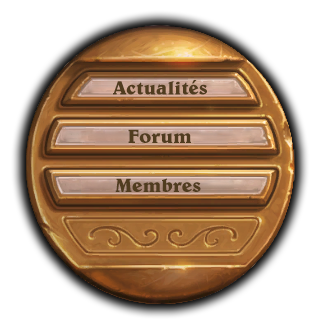
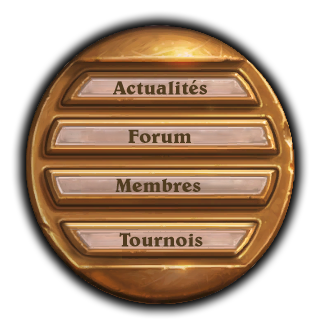
Menu has tournoi

Changed region(s): [[0.1562, 0.6364, 0.8438, 0.8182]]

diff --git a/hsr/static/styles/style_1.css b/hsr/static/styles/style_1.css
@@ -104,6 +104,23 @@ a:hover {
 	top: 196px;
 }
 
+#menu_tournoi_h {
+	position: absolute;
+	background: url('/static/images/menu/Hover/tournoi.png');
+    width: 221px;
+    height: 51px;
+    left: 50%;
+    margin-left: -106px;
+    top: 338px;
+    z-index: 14;
+}
+#menu_tournoi_h:hover {
+	background: url('/static/images/menu/Hover/tournoi_h.png');
+}
+#menu_tournoi_h:active {
+	top: 340px;
+}
+
 #menu_forum_h {
 	position: absolute;
 	background: url('/static/images/menu/Hover/forum.png');

diff --git a/hsr/templates/base.html b/hsr/templates/base.html
@@ -50,6 +50,7 @@
 		<a href="/"><div id="menu_actualite_h"></div></a>
 		<a href="/forum/"><div id="menu_forum_h"></div></a>
 		<a href="/profil/recherche/"><div id="menu_membres_h"></div></a>
+		<a href="/"><div id="menu_tournoi_h"></div></a>
 		
 		<div id="liens">
 			<div class="liens-titre"><h3>Liens utiles</h3></div>
